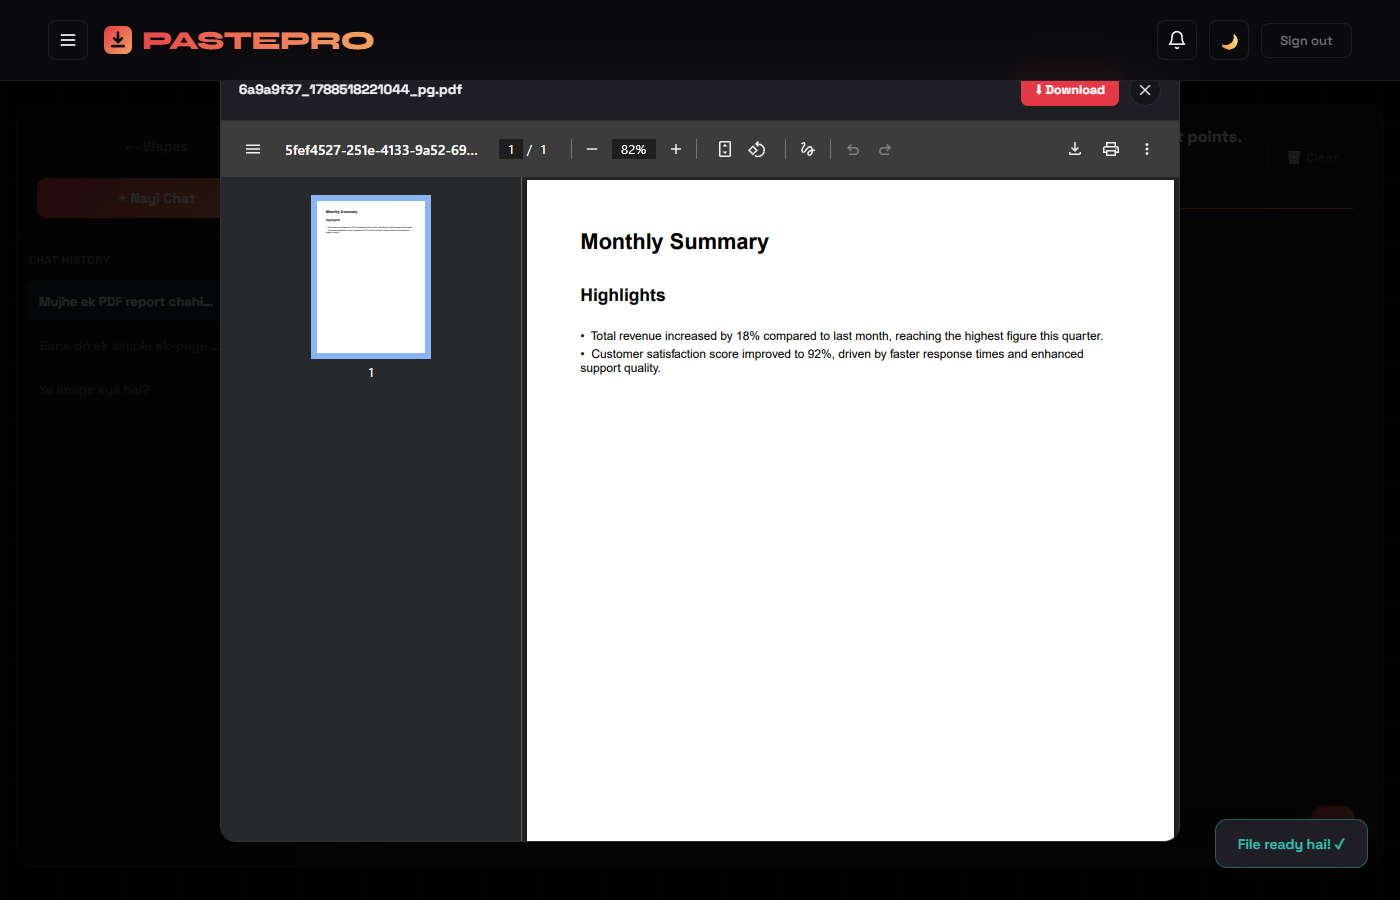
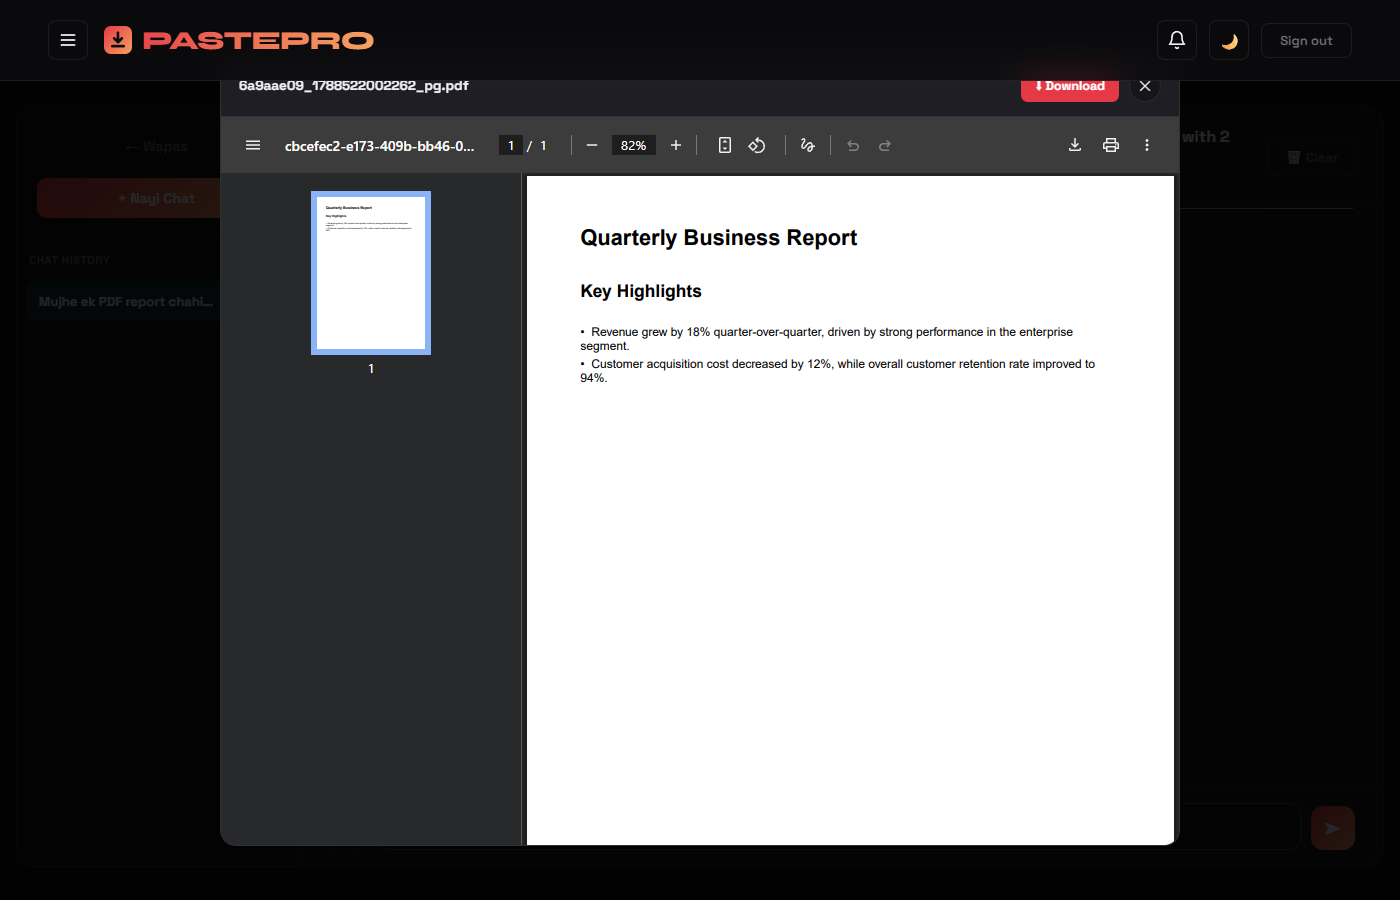
Document file generation + fix a real canvas modal sizing bug found while shooting it
Documentation: added a second screenshot to the Playground Query file-
generation section showing the "Click Preview & Download" card itself
(before clicking), paired with an updated canvas-open screenshot — so
the full flow (AI drops a file card -> one click -> real file opens in
the canvas) is visible end to end, not just the end state.

While shooting these, found that the previous "80vh -> 100%" canvas
sizing fix was incomplete: .pg-attach-modal-inner only had
max-height:88vh (no explicit height), so its own height was
content-driven and indeterminate whenever align-items:center prevented
stretching — meaning a child's height:100% couldn't resolve against a
definite ancestor and collapsed to the browser's ~150px default replaced-
element height instead of actually filling the modal. Confirmed this
by comparing rendered PDF geometry before/after: the iframe was stuck
at 150px regardless of window size. Fix: give .pg-attach-modal-inner an
explicit height:88vh (not just max-height), so it and its children now
have a definite, viewport-proportional height chain to resolve against
in all cases — the modal now properly fills up to 88% of the actual
window on both a normal and a short (750px) viewport, and image/video
attachments still render at their natural size, centered, as before.

Verified with Playwright across all three canvas content types (image
attachment, AI-generated PDF, and the file-generation card->canvas
[…]

diff --git a/index.html b/index.html
@@ -559,7 +559,7 @@
 
     /* Attachment viewer modal */
     .pg-attach-modal { position:fixed; inset:0; background:rgba(0,0,0,0.85); z-index:1000; display:flex; align-items:center; justify-content:center; padding:32px; }
-    .pg-attach-modal-inner { position:relative; width:100%; max-width:960px; max-height:88vh; background:var(--card); border:1px solid var(--border); border-radius:16px; overflow:hidden; display:flex; flex-direction:column; }
+    .pg-attach-modal-inner { position:relative; width:100%; max-width:960px; height:88vh; max-height:88vh; background:var(--card); border:1px solid var(--border); border-radius:16px; overflow:hidden; display:flex; flex-direction:column; }
     .pg-attach-modal-header { display:flex; align-items:center; justify-content:space-between; gap:12px; padding:14px 18px; border-bottom:1px solid var(--border); font-size:13.5px; font-weight:700; }
     .pg-attach-modal-close { flex-shrink:0; width:32px; height:32px; border-radius:50%; background:var(--surface); border:1px solid var(--border); color:var(--text); font-size:14px; cursor:pointer; }
     .pg-attach-modal-close:hover { border-color:var(--accent); color:var(--accent); }
@@ -1246,9 +1246,15 @@
               <div class="docs-shot-caption">Ask the AI to code something — Preview it live, Download the code, or open it in a new tab</div>
             </div>
           </div>
-          <div class="docs-shot-wrap">
-            <img class="docs-shot" src="/docs-assets/playground-file-generate.png" alt="AI-generated PDF opened in the canvas viewer" loading="lazy" />
-            <div class="docs-shot-caption">Asked the AI for a PDF report — it generated the real file and opened it in the canvas, with a Download button</div>
+          <div class="docs-shot-row">
+            <div>
+              <img class="docs-shot" src="/docs-assets/playground-filegen-card.png" alt="File generation card with a Click Preview and Download button" loading="lazy" />
+              <div class="docs-shot-caption">Asked the AI for a PDF report — it drops a "Click Preview &amp; Download" card into the chat</div>
+            </div>
+            <div>
+              <img class="docs-shot" src="/docs-assets/playground-file-generate.png" alt="AI-generated PDF opened in the canvas viewer" loading="lazy" />
+              <div class="docs-shot-caption">One click generates the real PDF and opens it in the canvas, with a Download button</div>
+            </div>
           </div>
         </div>
 
